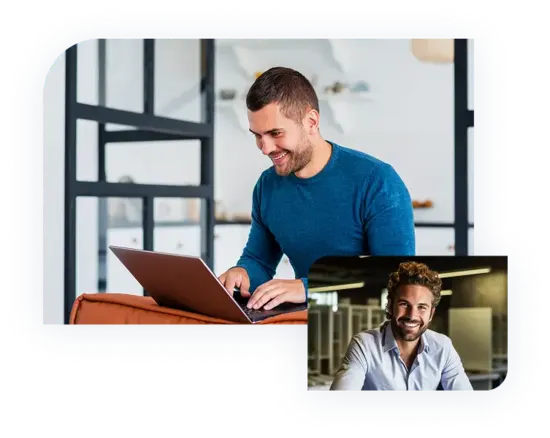
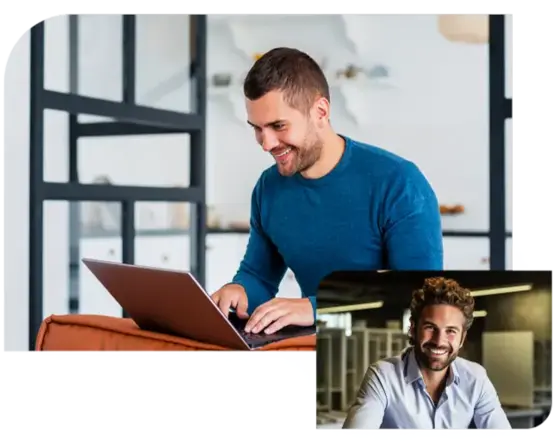
update home page layout width

diff --git a/src/components/home/Solution.js b/src/components/home/Solution.js
@@ -3,7 +3,7 @@ import Image from 'next/image';
 export default function Solution () {
   return (
     <section className="py-12">
-      <div className="max-w-7xl mx-auto px-4 sm:px-6 lg:px-8">
+      <div className="max-w-7xl mx-auto px-4 md:px-0">
 
         <div className="text-center mb-12">
           <h1 className="inline-block bg-blue-100 text-blue-700 text-sm px-3 py-1 rounded-full mb-4">Our Solutions</h1>
@@ -14,10 +14,10 @@ export default function Solution () {
         </div>
         
 
-        <div className="grid grid-cols-1 lg:grid-cols-2 gap-8 justify-items-center lg:mx-35">
+        <div className="grid grid-cols-1 lg:grid-cols-2 gap-8 justify-items-center">
 
-          <div className="bg-[#DEF2FF] rounded-lg shadow hover:shadow-lg transition-shadow max-w-md w-full">
-            <div className="flex items-center p-6">
+          <div className="bg-[#DEF2FF] rounded-lg shadow hover:shadow-lg transition-shadow max-w-lg md:max-w-xl w-full">
+            <div className="flex items-center p-8">
               <div className="flex-1">
                 <h3 className="text-xl font-semibold mb-2">DDOS Protected</h3>
                 <p className="text-gray-600">
@@ -36,8 +36,8 @@ export default function Solution () {
           </div>
 
 
-          <div className="bg-[#F4F4F4] rounded-lg shadow hover:shadow-lg transition-shadow max-w-md w-full">
-            <div className="flex items-center p-6">
+          <div className="bg-[#F4F4F4] rounded-lg shadow hover:shadow-lg transition-shadow max-w-lg md:max-w-xl w-full">
+            <div className="flex items-center p-8">
               <div className="flex-1">
                 <h3 className="text-xl font-semibold mb-2">Instant Setup</h3>
                 <p className="text-gray-600">
@@ -56,8 +56,8 @@ export default function Solution () {
           </div>
 
 
-          <div className="bg-[#F4F4F4] rounded-lg shadow hover:shadow-lg transition-shadow max-w-md w-full">
-            <div className="flex items-center p-6">
+          <div className="bg-[#F4F4F4] rounded-lg shadow hover:shadow-lg transition-shadow max-w-lg md:max-w-xl w-full">
+            <div className="flex items-center p-8">
               <div className="flex-1">
                 <h3 className="text-xl font-semibold mb-2">24/7 Live Support</h3>
                 <p className="text-gray-600">
@@ -76,8 +76,8 @@ export default function Solution () {
           </div>
 
 
-          <div className="bg-[#DEF2FF] rounded-lg shadow hover:shadow-lg transition-shadow max-w-md w-full">
-            <div className="flex items-center p-6">
+          <div className="bg-[#DEF2FF] rounded-lg shadow hover:shadow-lg transition-shadow max-w-lg md:max-w-xl w-full">
+            <div className="flex items-center p-8">
               <div className="flex-1">
                 <h3 className="text-xl font-semibold mb-2">Guaranteed Uptime</h3>
                 <p className="text-gray-600">
@@ -96,8 +96,8 @@ export default function Solution () {
           </div>
 
 
-          <div className="bg-[#DEF2FF] rounded-lg shadow hover:shadow-lg transition-shadow max-w-md w-full">
-            <div className="flex items-center p-6">
+          <div className="bg-[#DEF2FF] rounded-lg shadow hover:shadow-lg transition-shadow max-w-lg md:max-w-xl w-full">
+            <div className="flex items-center p-8">
               <div className="flex-1">
                 <h3 className="text-xl font-semibold mb-2">Blog Management</h3>
                 <p className="text-gray-600">
@@ -116,8 +116,8 @@ export default function Solution () {
           </div>
 
 
-          <div className="bg-[#F4F4F4] rounded-lg shadow hover:shadow-lg transition-shadow max-w-md w-full">
-            <div className="flex items-center p-6">
+          <div className="bg-[#F4F4F4] rounded-lg shadow hover:shadow-lg transition-shadow max-w-lg md:max-w-xl w-full">
+            <div className="flex items-center p-8">
               <div className="flex-1">
                 <h3 className="text-xl font-semibold mb-2">Periodic Malware Scanner</h3>
                 <p className="text-gray-600">

diff --git a/src/components/home/WhySeekahost.js b/src/components/home/WhySeekahost.js
@@ -4,8 +4,8 @@ export default function WhySeekahost () {
     return (
         <>
         <section className="py-16 bg-white">
-        <div className="max-w-7xl mx-auto px-4 flex flex-col md:flex-row items-center gap-12 justify-center">
-          <div className="w-full md:w-1/3">
+        <div className="max-w-7xl mx-auto px-4 flex flex-col md:flex-row items-center gap-15 justify-center">
+          <div className="w-full md:w-1/2">
             <h2 className="text-3xl md:text-4xl font-bold text-gray-900 mb-6">
               Why SeekaHost
             </h2>
@@ -61,8 +61,8 @@ export default function WhySeekahost () {
             </div>
           </div>
 
-          <div className="w-full md:w-1/3">
-            <div className="flex justify-center">
+          <div className="w-full md:w-1/2">
+            <div className="flex justify-center md:justify-end">
               <Image
                 src="/images/home/woman-laptop.webp"
                 alt="Woman using laptop"
@@ -84,9 +84,9 @@ export default function WhySeekahost () {
           priority
         />
 
-        <div className="relative z-1 max-w-6xl mx-auto px-4 sm:px-6 lg:px-8 flex flex-col md:flex-row items-center">
+        <div className="relative z-1 max-w-7xl mx-auto px-4 flex flex-col md:flex-row items-center">
 
-          <div className="md:w-1/2 mb-8 md:mb-0 md:pl-30 text-white">
+          <div className="md:w-1/2 mb-8 md:mb-0 text-white">
             <p className="text-sm font-medium mb-2">Important For Transactions</p>
             <h2 className="text-2xl md:text-3xl mb-6 leading-snug">
               Useful for facilitating transactions<span className='font-semibold'> between <br />
@@ -109,12 +109,12 @@ export default function WhySeekahost () {
           </div>
 
 
-          <div className="md:w-1/2 relative flex justify-center items-center">
+          <div className="md:w-1/2 relative flex justify-center md:justify-end items-center">
             <Image
               src="/images/home/buynsell.webp"
               alt="Person using laptop"
-              width={754}
-              height={600}
+              width={560}
+              height={446}
               className="rounded-md"
             />
           </div>

diff --git a/src/components/shared/Video.js b/src/components/shared/Video.js
@@ -20,12 +20,12 @@ export default function Video() {
             </p>
           </div>
 
-          <div className="relative max-w-2xl mx-auto rounded-xl overflow-hidden shadow-xl border-4 border-white">
+          <div className="relative max-w-5xl mx-auto rounded-4xl overflow-hidden shadow-4xl border-8 border-white">
             <Image
-              src="/images/home/video-thumb.webp"
+              src="/images/shared/video-thumb.webp"
               alt="Woman holding phone"
-              width={700}
-              height={399}
+              width={1008}
+              height={575}
               className="w-full h-auto object-cover"
               priority
             />
@@ -39,7 +39,7 @@ export default function Video() {
               <svg
                 xmlns="http://www.w3.org/2000/svg"
                 viewBox="0 0 26 26"
-                className="w-15 h-15 transition duration-1000 fill-white opacity-60 hover:fill-[#136CC9] hover:opacity-100"
+                className="w-20 h-20 transition duration-1000 fill-white opacity-60 hover:fill-[#136CC9] hover:opacity-100"
               >
                 <polygon points="9.33 6.69 9.33 19.39 19.3 13.04 9.33 6.69" />
                 <path d="M26,13A13,13,0,1,1,13,0,13,13,0,0,1,26,13ZM13,2.18A10.89,10.89,0,1,0,23.84,13.06,10.89,10.89,0,0,0,13,2.18Z" />

diff --git a/src/components/home/Hero.js b/src/components/home/Hero.js
@@ -17,14 +17,14 @@ export default function Hero () {
                         All-in-One Click WordPress Blog hosting control panel to securely host private blog networks on unique multiple IP addresses.
                     </p>
 
-                    <div className="mt-6 flex items-center bg-white rounded-full px-4 py-2 shadow-md w-full max-w-lg">
+                    <div className="mt-6 flex items-center bg-white rounded-full pl-4 shadow-md w-full max-w-lg">
                         <input
                             id="searchDomain"
                             type="text"
                             placeholder="Search for a domain..."
-                            className="flex-grow outline-none text-black px-2"
+                            className="flex-grow outline-none text-black"
                         />
-                        <button className="bg-blue-600 text-white px-6 py-2 rounded-full hover:bg-blue-700 transition">
+                        <button className="bg-blue-600 text-white px-5 md:px-10 py-4 rounded-full hover:bg-blue-700 transition">
                             Search
                         </button>
                     </div>

diff --git a/src/components/shared/Review.js b/src/components/shared/Review.js
@@ -39,7 +39,7 @@ export default function Reviews() {
                 className="object-cover z-0"
                 priority
             />
-            <div className="relative z-1 max-w-7xl mx-auto px-4 sm:px-6 lg:px-40 flex flex-col md:flex-row items-center">
+            <div className="relative z-1 max-w-6xl mx-auto px-4 flex flex-col md:flex-row items-center">
                 <div className="md:flex md:items-center md:space-x-8">
                     <div className="md:w-1/2 flex flex-col justify-center mb-8 md:mb-0">
                         <h2 className="text-base text-blue-600 font-semibold tracking-wide uppercase">

diff --git a/src/components/shared/FAQ.js b/src/components/shared/FAQ.js
@@ -35,7 +35,7 @@ export default function FAQs() {
     };
 
     return (
-        <div className="max-w-4xl mx-auto py-12 px-4 sm:px-6 lg:px-8 text-center">
+        <div className="max-w-7xl mx-auto py-12 px-4 sm:px-6 lg:px-8 text-center">
             <p className="inline-block bg-blue-100 text-blue-700 text-sm px-3 py-1 rounded-full mb-4">Frequently Asked Question</p>
             <h2 className="text-center text-3xl font-semibold text-gray-900 mb-8">
                 Questions about our services

diff --git a/src/components/shared/PackagePrices.js b/src/components/shared/PackagePrices.js
@@ -101,7 +101,7 @@ export default function PackagesPrices() {
                 className="object-cover z-0"
                 priority
             />
-            <div className="relative z-1 max-w-5xl mx-auto px-7 text-center">
+            <div className="relative z-1 max-w-7xl mx-auto px-7 text-center">
                 <h1 className="text-blue-600">PBN Manager</h1>
                 <h2 className="text-3xl md:text-4xl mb-4 text-[#042552]">
                     Best Plans & Cheapest Prices
